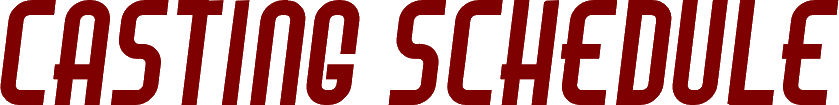
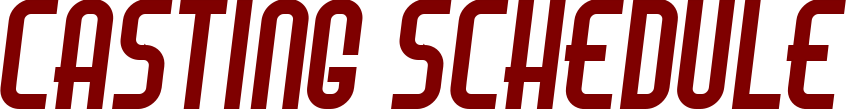
added titles and community page

diff --git a/community.html b/community.html
@@ -12,7 +12,6 @@
         </section>
 
         <section class="menu">
-            <!-- <img src="img/menu.png" /> -->
             <ul>
                 <li><a href="index.html" id="schedule">Schedule</a></li>
                 <li><a href="news.html" id="news">News</a></li>
@@ -27,10 +26,17 @@
         </section>
 
         <section class="info" >
-            <!-- <iframe src="https://calendar.google.com/calendar/embed?showTitle=0&amp;showPrint=0&amp;showTabs=0&amp;showCalendars=0&amp;mode=AGENDA&amp;height=600&amp;wkst=2&amp;bgcolor=%23ffffff&amp;src=en.be%23holiday%40group.v.calendar.google.com&amp;color=%235229A3&amp;ctz=America%2FEdmonton" style="border-width:0" width="100%" height="600" frameborder="0" scrolling="no"></iframe> -->
-            <p>
-                link to discord, twitch, twitter, battlefy, and steam will come here
-            </p>
+            <a href="http://battlefy.com/thefridgenetwork" target="_blank"><img src="img/battlefyJoin.png" alt="Battlefy" id="battlefy"/></a><br />
+            <a href="http://steamcommunity.com/groups/thefridgenetwork" target="_blank" id="steam"><img src="img/steamJoin.png" alt="Twitch" /></a>
+            <!-- <a href="https://twitter.com/fridge_network" target="_blank"><img src="img/twitterJoin.png" alt="Twitter" /></a> -->
+            <iframe
+                src="https://discordapp.com/widget?id=187041544665169921&amp;theme=dark"
+                width="100%"
+                height="500"
+                allowtransparency="true"
+                frameborder="0"
+                id="discord">
+             </iframe>
         </section>
 
         <section class="twitch">

diff --git a/TFN.css b/TFN.css
@@ -87,11 +87,23 @@ body{
 }
 /*/section*/
 /*section title*/
-.title img{
+/*.title img{
     position: absolute;
     top: 8%;
     left: 25%;
     height: 90px;
+}*/
+.title{
+    position: absolute;
+    top: 8%;
+    left: 25%;
+    width: 40%;
+}
+.title img{
+    display: block;
+    height: 90px;
+    margin-left: auto;
+    margin-right: auto;
 }
 /*/section*/
 /*section twitch*/
@@ -120,6 +132,7 @@ body{
     top: 25%;
     left: 30%;
     width: 30%;
+    height: 70%;
     z-index: 11;
 }
 .info p{
@@ -127,6 +140,18 @@ body{
     font-weight: bold;
     font-size: 1em;
 }
+.info #discord{
+    position: relative;
+    top: -300px;
+    float: right;
+    width: 50%;
+    height: 85%;
+}
+
+.info img{
+    height: 300px;
+}
+
 /*/section*/
 /*section clock*/
 .clock{
